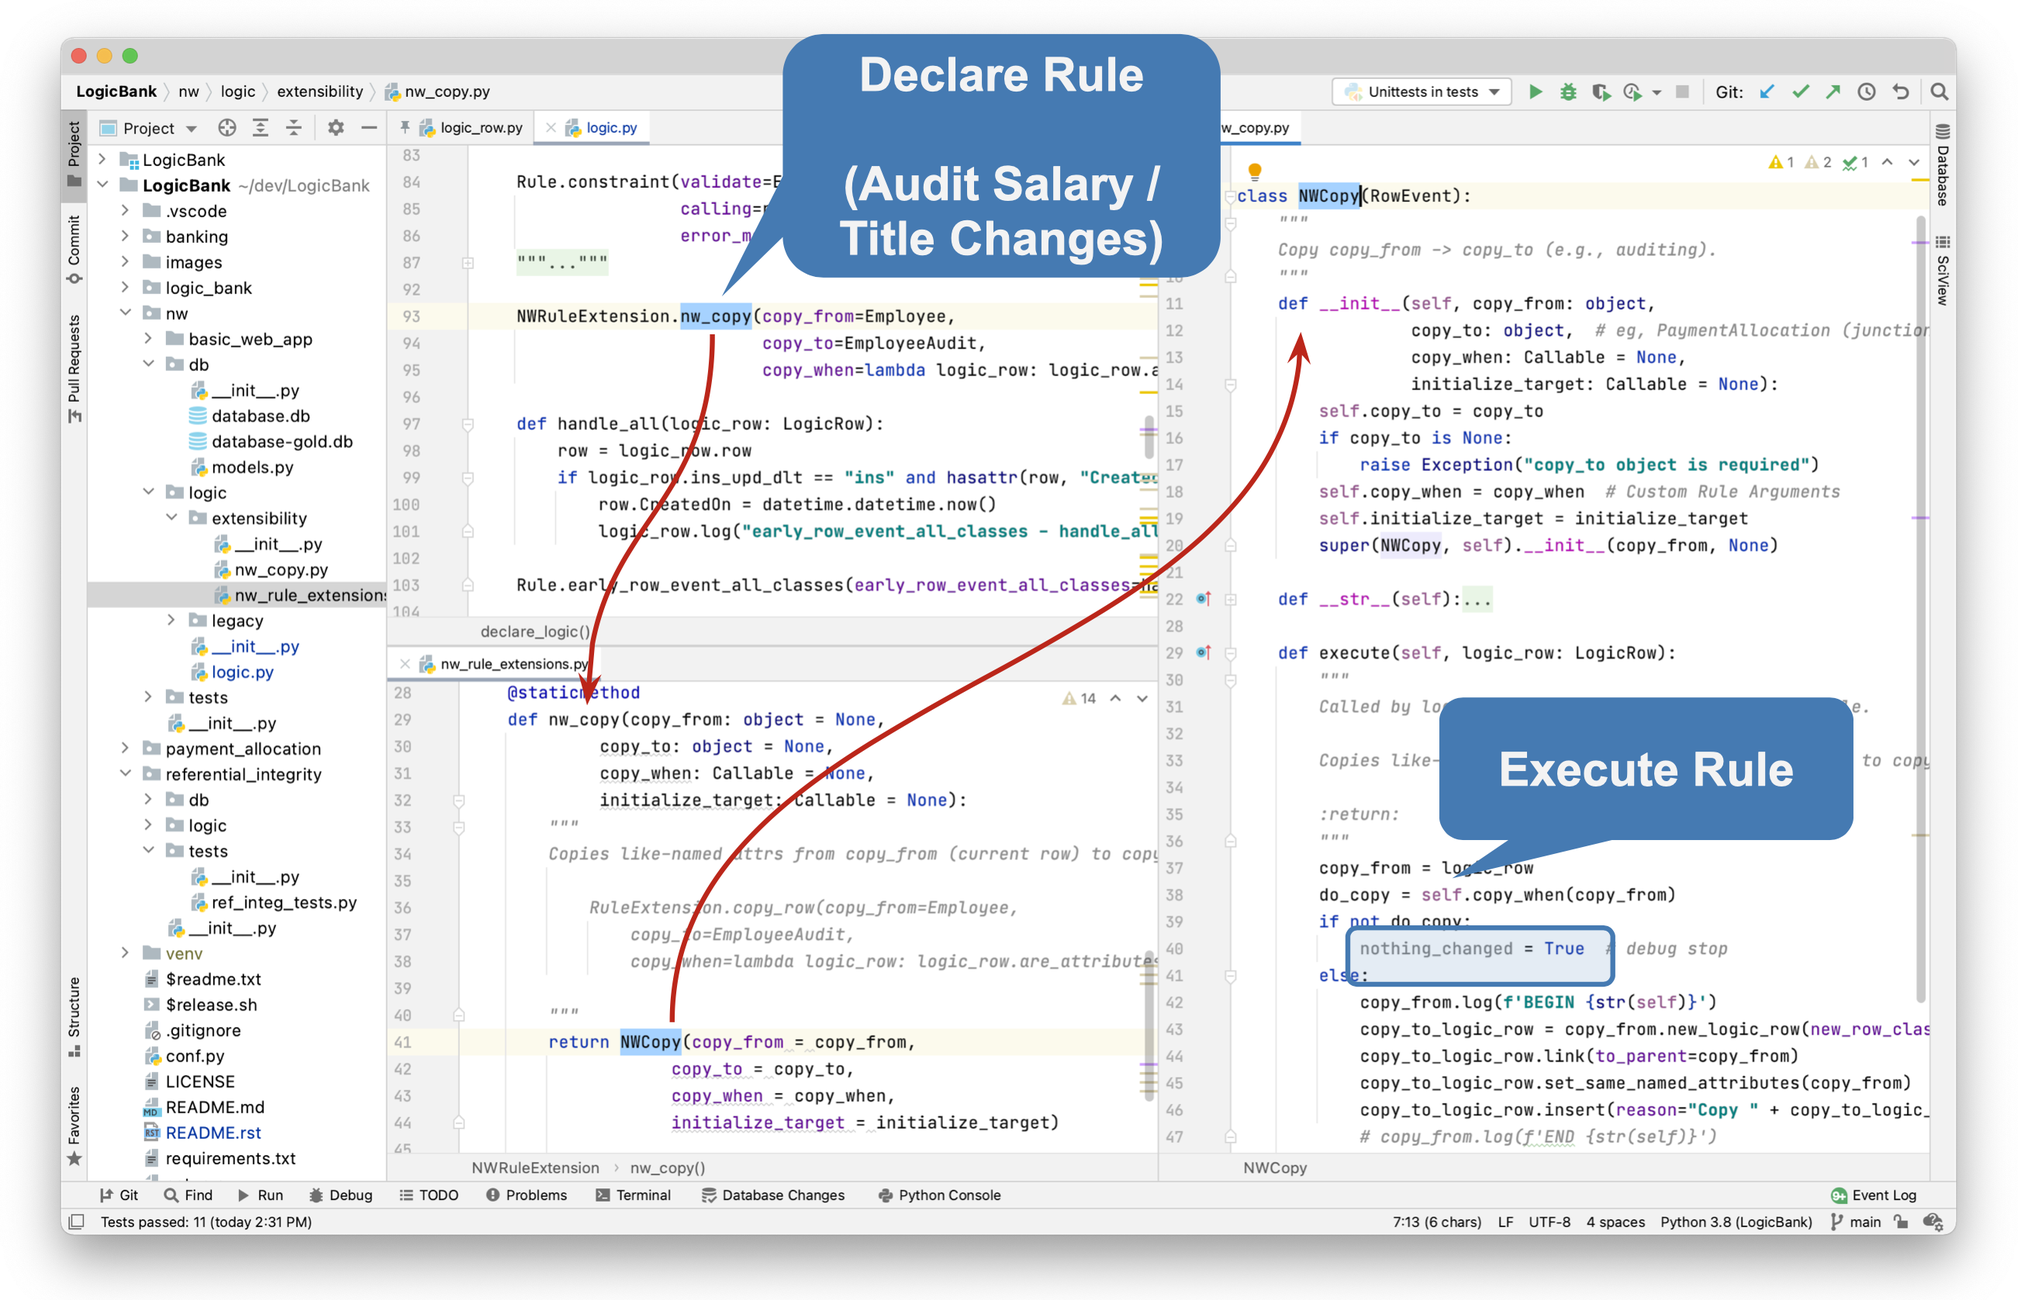
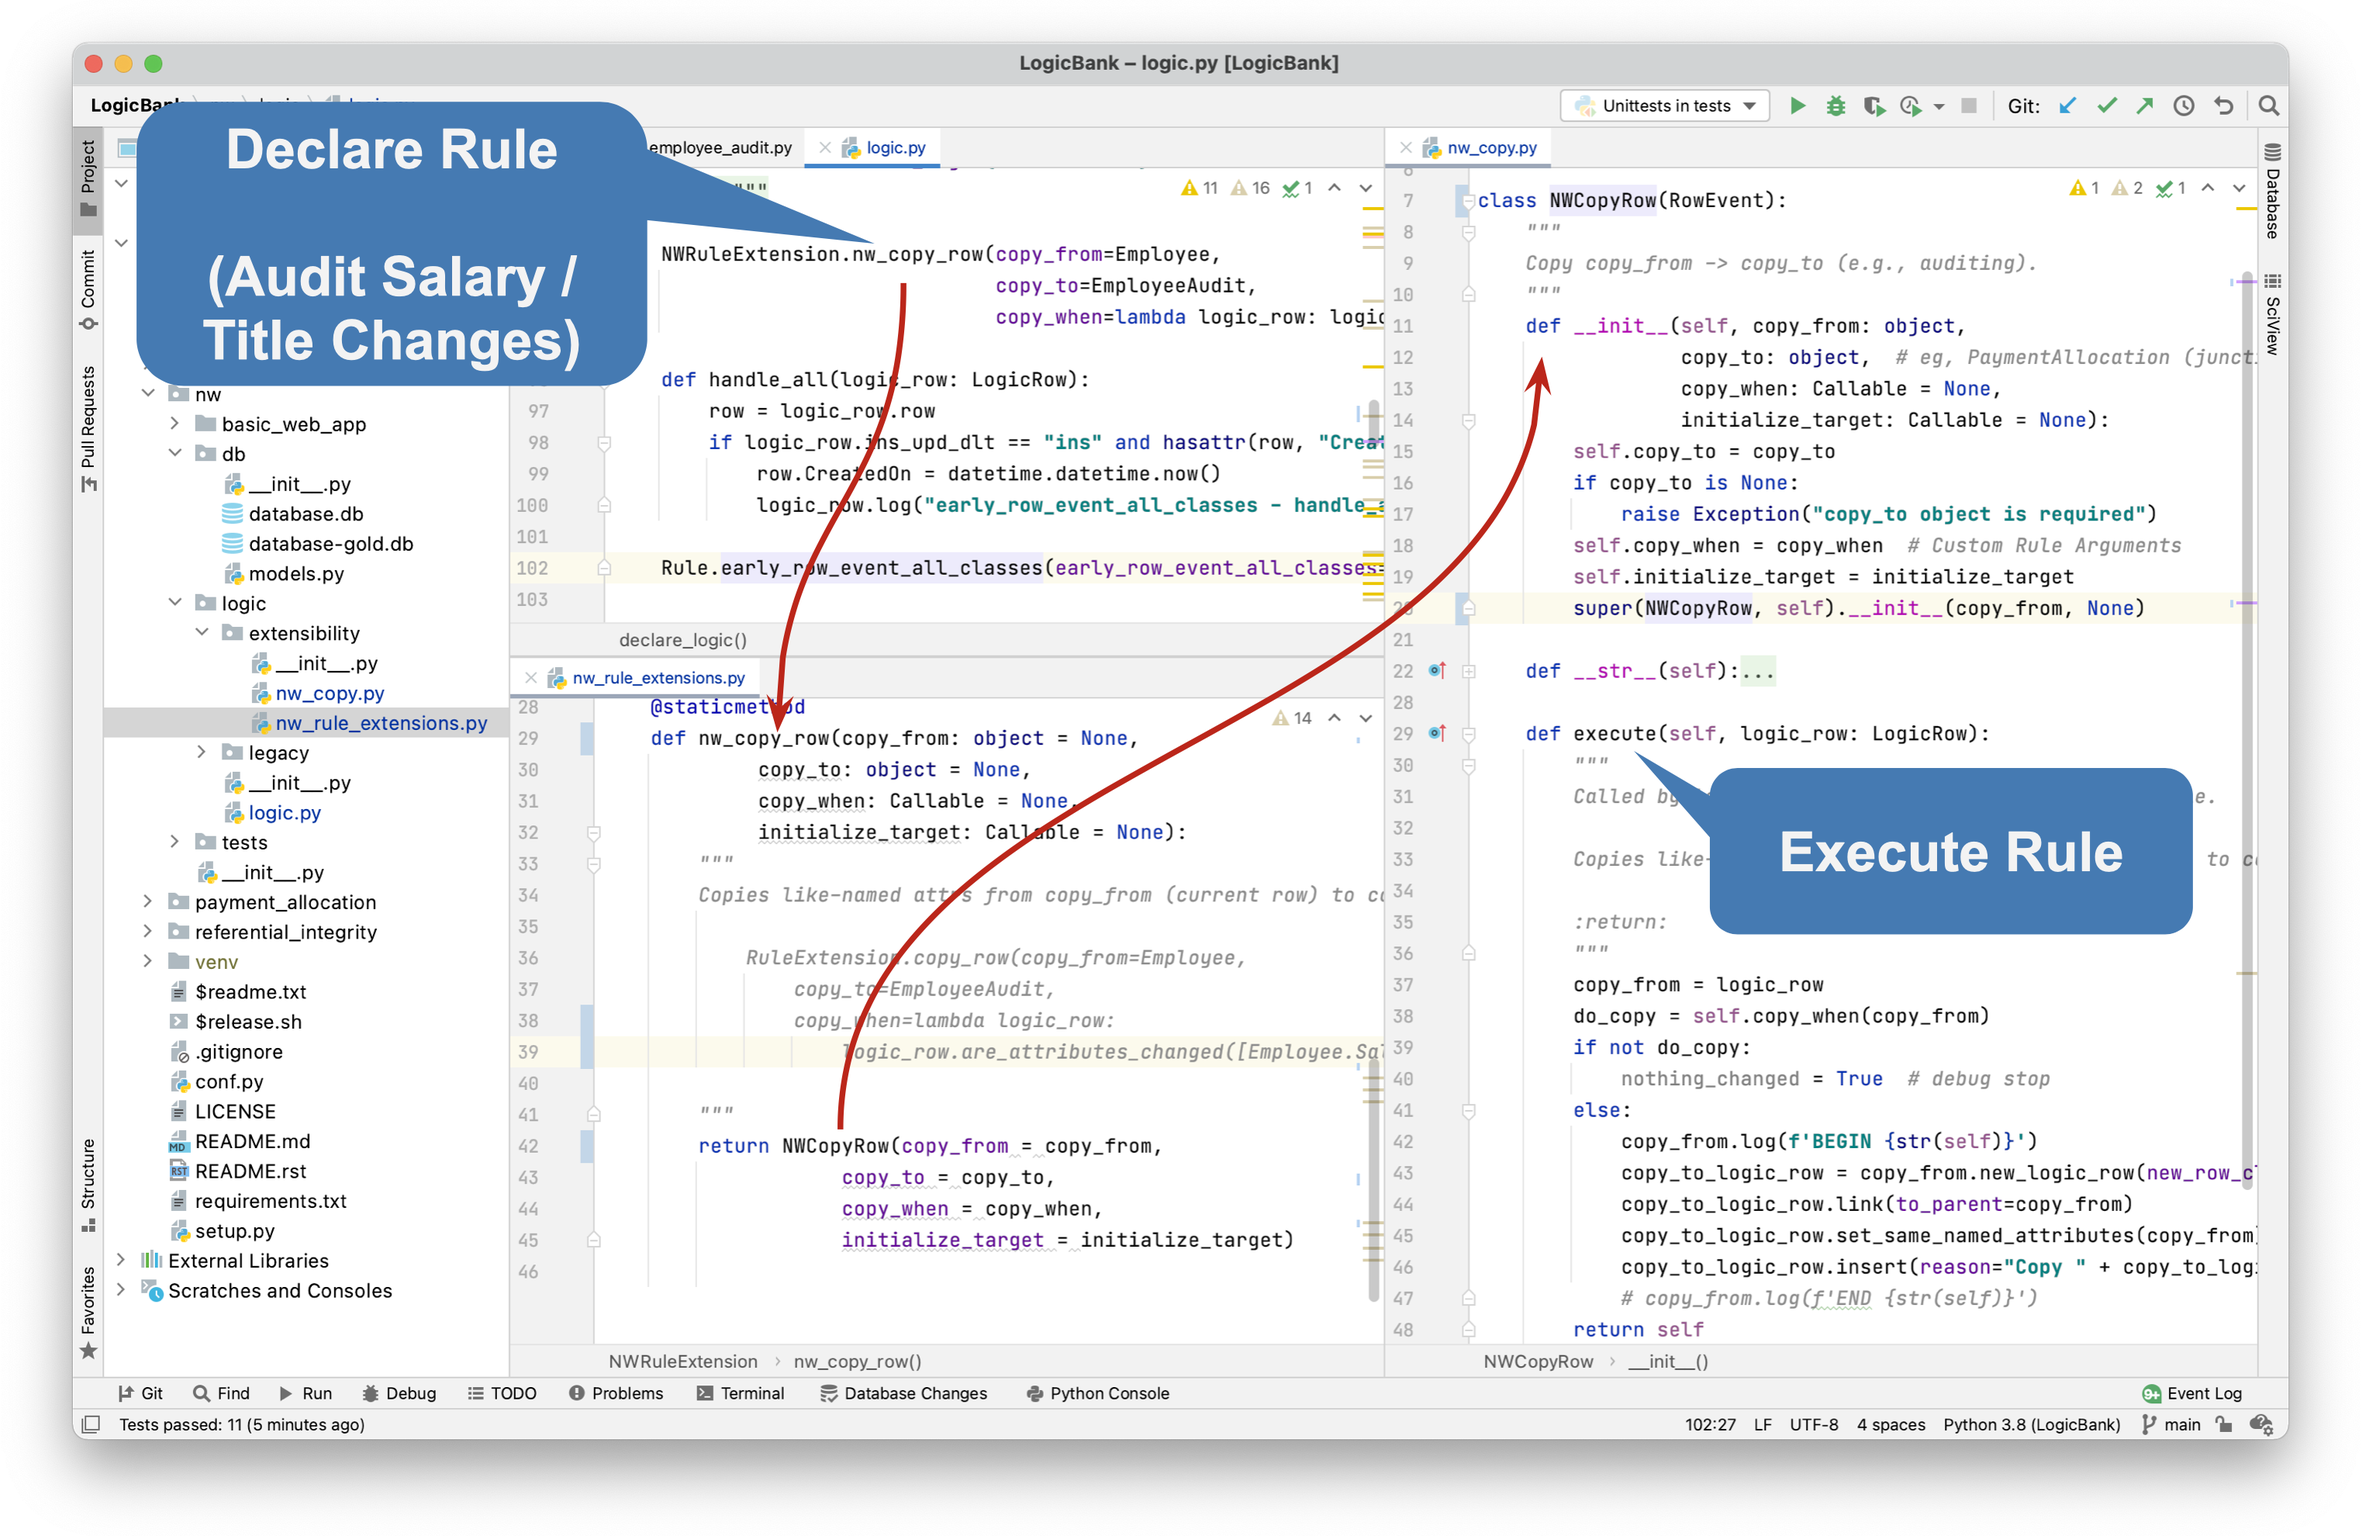
rename copy -> copy_row

diff --git a/logic_bank/extensions/rule_extensions.py b/logic_bank/extensions/rule_extensions.py
@@ -1,17 +1,6 @@
-from decimal import Decimal
 from typing import Callable
-
-import sqlalchemy
-from sqlalchemy.orm import object_mapper
-from sqlalchemy_utils import get_mapper
-
-from logic_bank import rule_bank
-from logic_bank.exec_row_logic.logic_row import LogicRow
 from logic_bank.extensions.allocate import Allocate
-from logic_bank.extensions.copy import Copy
-from logic_bank.rule_bank import rule_bank_withdraw
-from logic_bank.rule_bank.rule_bank import RuleBank
-from logic_bank.rule_type.row_event import EarlyRowEvent
+from logic_bank.extensions.copy_row import CopyRow
 
 """
 Logic Bank supports Rule Extensions, of Event Rules.
@@ -60,7 +49,7 @@ class RuleExtension:
                         while_calling_allocator=while_calling_allocator)
 
     @staticmethod
-    def copy(copy_from: object = None,
+    def copy_row(copy_from: object = None,
              copy_to: object = None,
              copy_when: Callable = None,
              initialize_target: Callable = None):
@@ -72,7 +61,7 @@ class RuleExtension:
                 copy_when=lambda logic_row: logic_row.are_attributes_changed([Employee.Salary, Employee.Title]))
 
         """
-        return Copy(copy_from = copy_from,
+        return CopyRow(copy_from = copy_from,
                     copy_to = copy_to,
                     copy_when = copy_when,
                     initialize_target = initialize_target)

diff --git a/nw/logic/extensibility/nw_rule_extensions.py b/nw/logic/extensibility/nw_rule_extensions.py
@@ -1,5 +1,5 @@
 from typing import Callable
-from nw.logic.extensibility.nw_copy import NWCopy
+from nw.logic.extensibility.nw_copy import NWCopyRow
 
 """
 Logic Bank supports Rule Extensions, of Event Rules.
@@ -26,7 +26,7 @@ class NWRuleExtension:
     """
 
     @staticmethod
-    def nw_copy(copy_from: object = None,
+    def nw_copy_row(copy_from: object = None,
              copy_to: object = None,
              copy_when: Callable = None,
              initialize_target: Callable = None):
@@ -35,10 +35,11 @@ class NWRuleExtension:
 
             RuleExtension.copy_row(copy_from=Employee,
                 copy_to=EmployeeAudit,
-                copy_when=lambda logic_row: logic_row.are_attributes_changed([Employee.Salary, Employee.Title]))
+                copy_when=lambda logic_row:
+                    logic_row.are_attributes_changed([Employee.Salary, Employee.Title]))
 
         """
-        return NWCopy(copy_from = copy_from,
+        return NWCopyRow(copy_from = copy_from,
                     copy_to = copy_to,
                     copy_when = copy_when,
                     initialize_target = initialize_target)

diff --git a/nw/logic/logic.py b/nw/logic/logic.py
@@ -89,9 +89,9 @@ def declare_logic():
                        copy_when=lambda logic_row: logic_row.are_attributes_changed([Employee.Salary, Employee.Title]))
     """
 
-    NWRuleExtension.nw_copy(copy_from=Employee,
-                            copy_to=EmployeeAudit,
-                            copy_when=lambda logic_row: logic_row.are_attributes_changed([Employee.Salary, Employee.Title]))
+    NWRuleExtension.nw_copy_row(copy_from=Employee,
+                                copy_to=EmployeeAudit,
+                                copy_when=lambda logic_row: logic_row.are_attributes_changed([Employee.Salary, Employee.Title]))
 
     def handle_all(logic_row: LogicRow):
         row = logic_row.row

diff --git a/nw/logic/extensibility/nw_copy.py b/nw/logic/extensibility/nw_copy.py
@@ -4,7 +4,7 @@ from logic_bank.exec_row_logic.logic_row import LogicRow
 from logic_bank.rule_type.row_event import RowEvent
 
 
-class NWCopy(RowEvent):
+class NWCopyRow(RowEvent):
     """
     Copy copy_from -> copy_to (e.g., auditing).
     """
@@ -17,7 +17,7 @@ class NWCopy(RowEvent):
             raise Exception("copy_to object is required")
         self.copy_when = copy_when  # Custom Rule Arguments
         self.initialize_target = initialize_target
-        super(NWCopy, self).__init__(copy_from, None)
+        super(NWCopyRow, self).__init__(copy_from, None)
 
     def __str__(self):
         copy_to = str(self.copy_to)

diff --git a/logic_bank/extensions/copy_row.py b/logic_bank/extensions/copy_row.py
@@ -4,7 +4,7 @@ from logic_bank.exec_row_logic.logic_row import LogicRow
 from logic_bank.rule_type.row_event import RowEvent
 
 
-class Copy(RowEvent):
+class CopyRow(RowEvent):
     """
     Copy copy_from -> copy_to (e.g., auditing).
     """
@@ -17,7 +17,7 @@ class Copy(RowEvent):
             raise Exception("copy_to object is required")
         self.copy_when = copy_when  # Custom Rule Arguments
         self.initialize_target = initialize_target
-        super(Copy, self).__init__(copy_from, None)
+        super(CopyRow, self).__init__(copy_from, None)
 
     def __str__(self):
         copy_to = str(self.copy_to)
